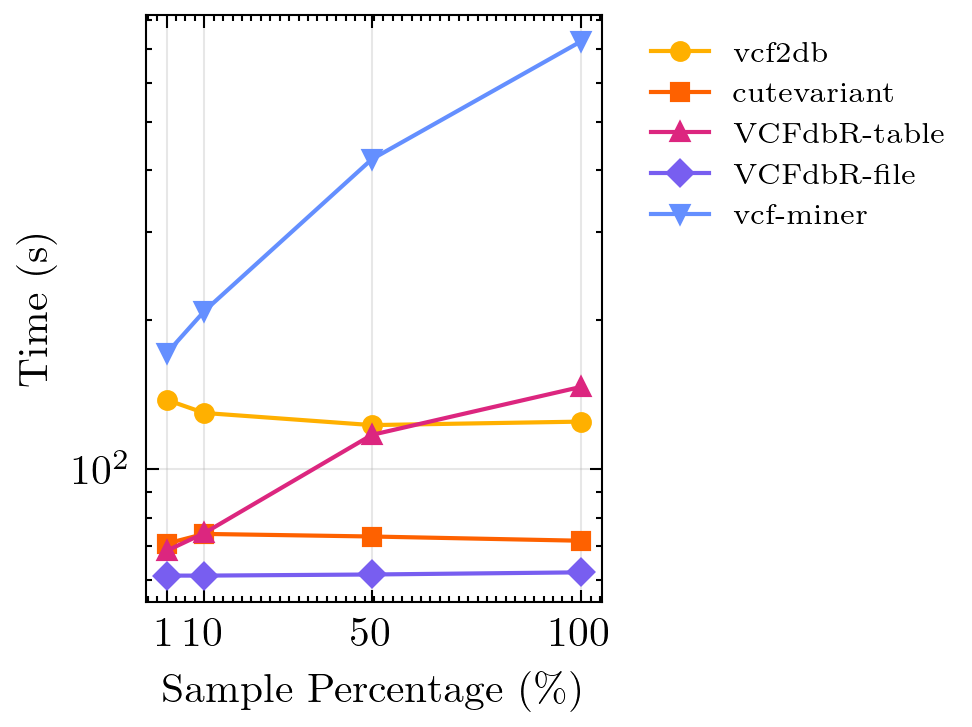
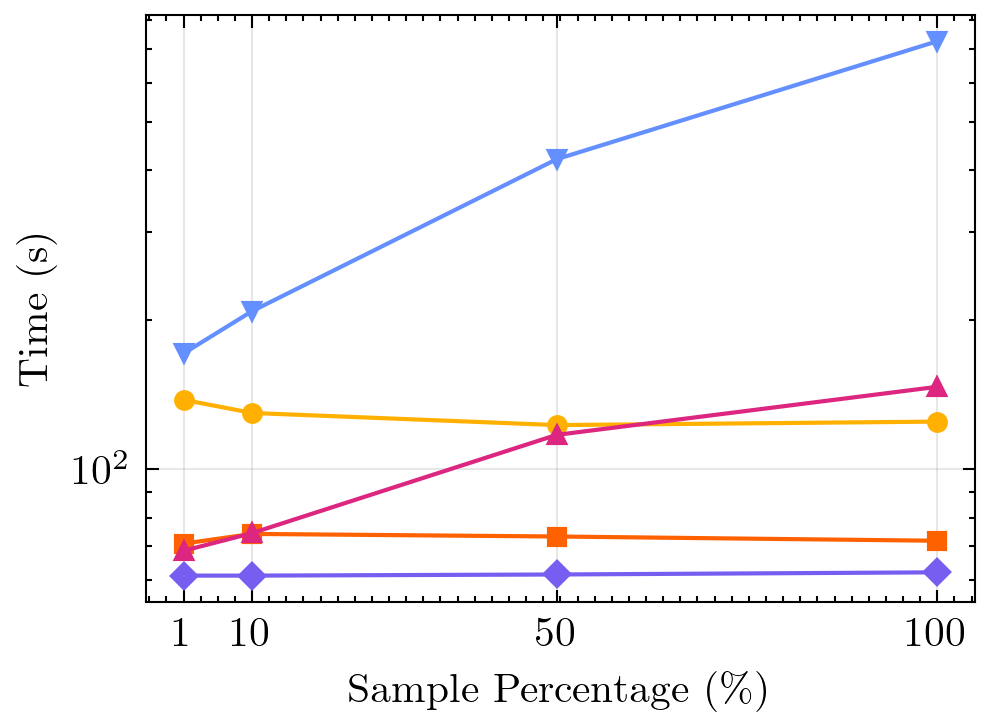
Legendless scaling plots

diff --git a/src/plot_queries_scaling.py b/src/plot_queries_scaling.py
@@ -9,10 +9,14 @@ markers = ['o', 's', '^', 'D', 'v', 'P', 'X']
 
 queries = ['query1', 'query2', 'query3', 'query4', 'query5', 'query6', 'query7']
 
+solutions = None
+
 for query in queries:
     df = pd.read_csv(f'data/queries/{query}_subsamples.csv')
 
-    solutions = df['solution'].unique()
+    if solutions is None:
+        solutions = df['solution'].unique()
+
     sample_percentages = [1, 10, 50, 100]
 
     for scale_type in ['log', 'linear']:
@@ -28,7 +32,6 @@ for query in queries:
         ax1.set_ylabel('Time (s)')
         if scale_type == 'log':
             ax1.set_yscale('log')
-        ax1.legend(fontsize=7, bbox_to_anchor=(1.05, 1), loc='upper left')
         ax1.set_xticks(sample_percentages)
         ax1.grid(True, alpha=0.3)
 
@@ -48,10 +51,20 @@ for query in queries:
         ax2.set_ylabel('Time (s)')
         if scale_type == 'log':
             ax2.set_yscale('log')
-        ax2.legend(fontsize=7, bbox_to_anchor=(1.05, 1), loc='upper left')
         ax2.set_xticks(sample_percentages)
         ax2.grid(True, alpha=0.3)
 
         plt.tight_layout()
         plt.savefig(f'plots/queries/{query}_scaling_warm_{scale_type}.png', dpi=300, bbox_inches='tight')
         plt.close()
+
+# Standalone legend
+fig_leg, ax_leg = plt.subplots()
+for i, solution in enumerate(solutions):
+    ax_leg.plot([], [], marker=markers[i % len(markers)], markersize=4, label=solution)
+legend = ax_leg.legend(ncol=len(solutions), loc='center', fontsize=7, frameon=True)
+ax_leg.set_axis_off()
+fig_leg.set_size_inches(legend.get_window_extent().width / fig_leg.dpi,
+                        legend.get_window_extent().height / fig_leg.dpi)
+plt.savefig('plots/queries/scaling_legend.png', dpi=300, bbox_inches='tight')
+plt.close()
